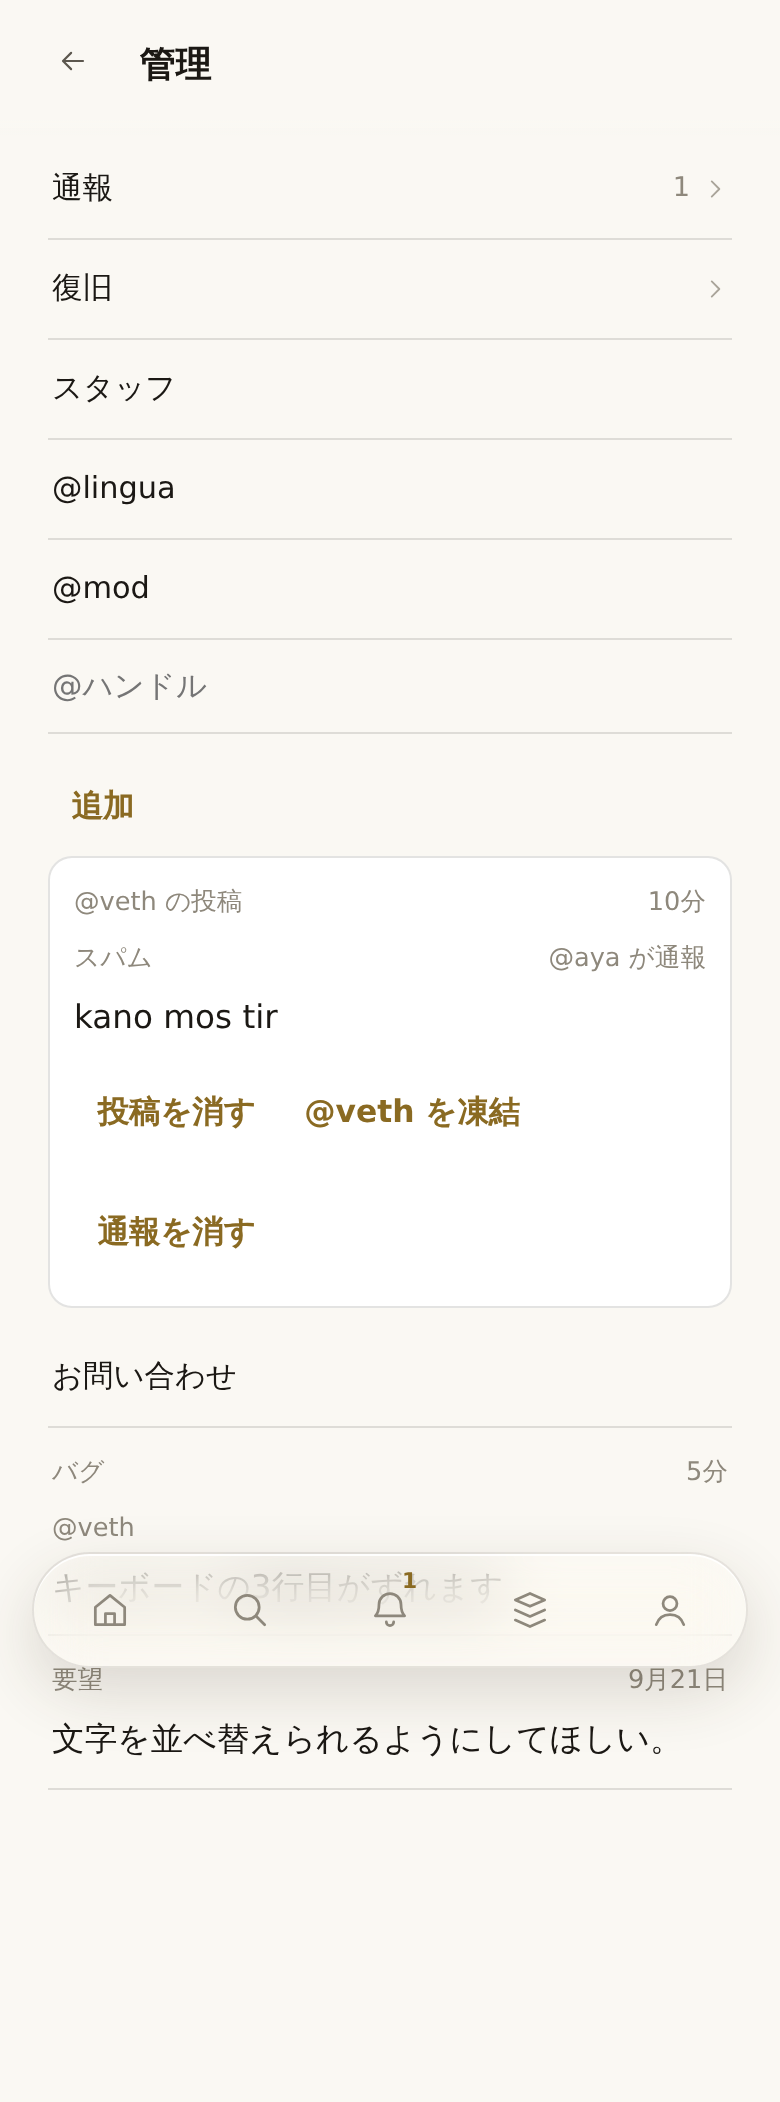
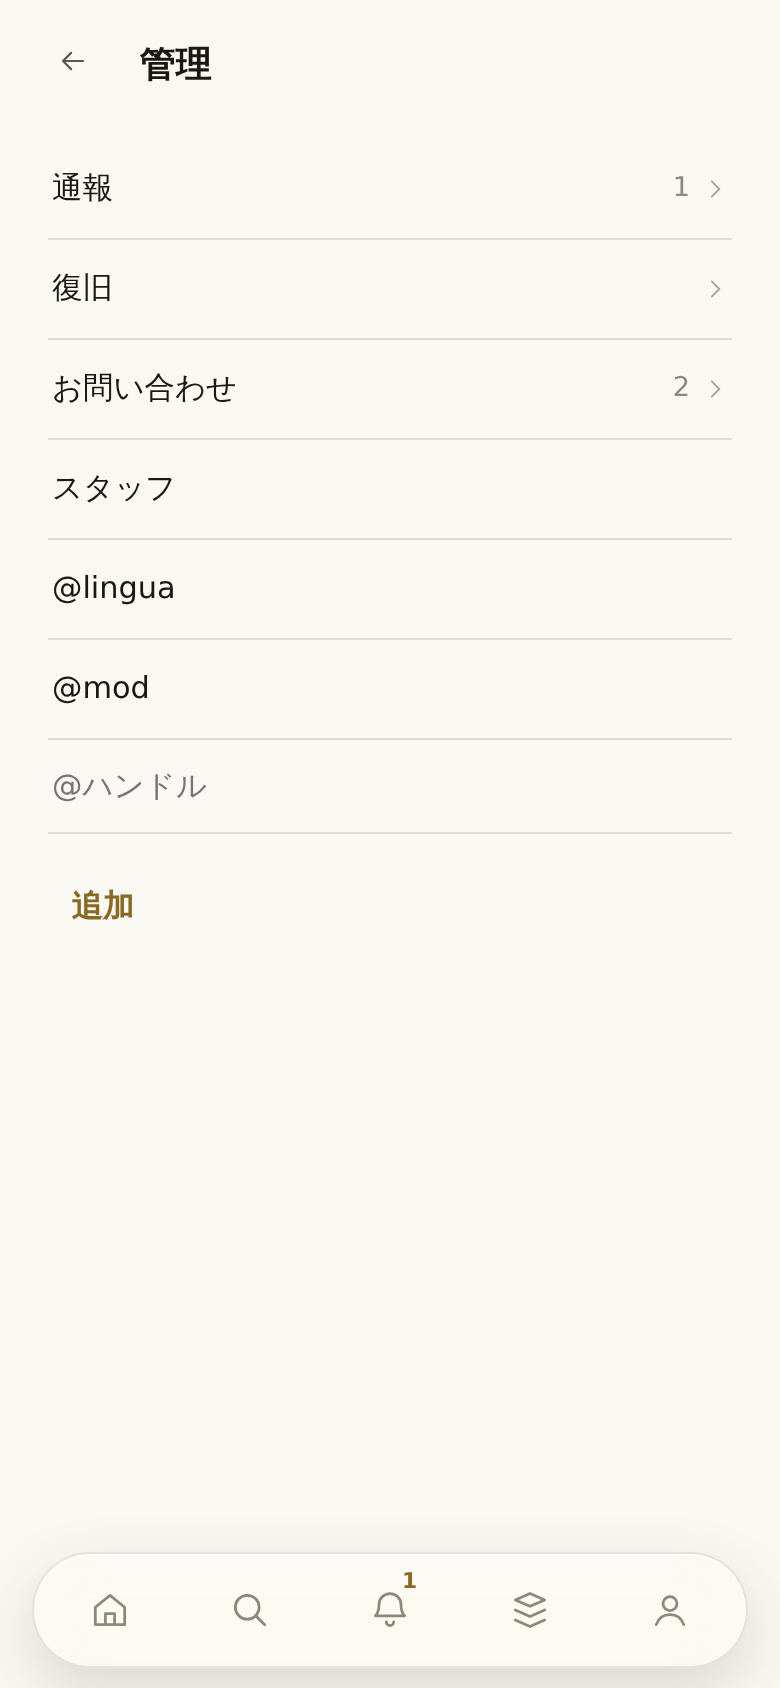
admin: 選択の画面に戻す ── 通報もお問い合わせも、開いたらそれだけの画面
「そもそもadminの画面キモすぎる。お問い合わせ→開いたらお問い合わせだけの画面。
通報と→開いたら通報だけの画面。最初のスタッフとかの画面はあくまで選択の画面
だから」OWNER 2026-09-22。

管理の画面に**通報の一覧がそのまま並んでいた** ── その上に「通報」の行があって、
押すと同じ物がもう一度出る画面へ行く。行き先を一つ自分の下にこぼした目次だった。
`modListHTML(rows)` を vAdmin から削除。残るのは行だけ：通報・復旧・
お問い合わせ・スタッフ。

お問い合わせは `admin:fb` の顔（復旧と同じで、route は増やさない ── 道も戻る
ボタンも shell の物）。bar の字も「お問い合わせ」にした（`pageName`）── 管理と
出る画面は「お問い合わせだけの画面」の半分なので。**復旧の顔は今も「管理」と
出るが、そこはこの session の持ち物ではないので触っていない**（報告に書く）。

**運営が一件消せる**（「運営は消せるように。」）：一件ごとに「消す」、一度訊いて
から `feedback_drop(f)`。`.ghost` で `.bad` ではない ── 消えるのは目の前の行
だけで、誰のアカウントにも触らない。del-check に登録（takes と asks）。

CSS は `.fbk` の下線一本だけ（前の commit の分）。

写真：r45-admin（選択の画面）、r45-admin-fb（二件・片方は退会で @ なし）、
r45-admin-fb-none（まだ無い）。

Claude-Session: https://claude.ai/code/session_01Rhn9xAnLWjkCZvjhnJpjae

diff --git a/www/mod.js b/www/mod.js
@@ -388,7 +388,36 @@ function fbkRow(r){
     '</div>'+
     (r.by? '<div class="mhead"><span class="mby">'+esc('@'+r.by)+'</span></div>' : '')+
     '<div class="mline">'+esc(r.body)+'</div>'+
+    /* 「運営は消せるように。」 OWNER 2026-09-22. `.ghost` and not `.bad`:
+       what it takes away is the row in front of you and nothing of anybody's
+       account, which is what the red on modRow()'s two buttons is for. */
+    '<button class="btn ghost"' + DO('fbkDrop', [r.id]) + '>'+
+      esc(t('admin.fb.drop'))+'</button>'+
     '</div>';
+}
+/* It asks first, because it cannot be taken back -- the same shape and the
+   same words as modDrop() one chapter up, since it is the same act on a
+   different queue. A failure goes the road every failed request goes:
+   netPop(), with 再接続 running this same press. */
+function fbkDrop(id){
+  popAsk(t('admin.fb.sure'), function(){ fbkDropGo(id); }, t('mod.drop.yes'));
+}
+function fbkDropGo(id){
+  netFeedbackDrop(id, function(){ fbkForget(id); render(); },
+    function(d, st){ netPop(d, st, '', function(){ fbkDropGo(id); }); });
+}
+function fbkForget(id){
+  var out=[], i, fs=FBK||[];
+  for(i=0;i<fs.length;i++) if(fs[i].id!==id) out.push(fs[i]);
+  FBK=out;
+}
+/* The list, and the two things that stand in its place -- modListHTML()'s
+   sentence about a different queue. Three states and not two: what could not
+   be asked, nothing to show, and the rows. */
+function fbkListHTML(){
+  return (FBK_ERR? emptyBox(FBK_ERR, '', '', true) : '')+
+    ((!FBK_ERR && FBK && !FBK.length)? emptyBox(t('admin.fb.none')) : '')+
+    (FBK||[]).map(fbkRow).join('');
 }
 function adminAsk(){
   ADMIN_BUSY=false;
@@ -543,7 +572,25 @@ function vAdmin(){
   if(a.indexOf('rec')===0)
     return '<div class="view">'+navTop('')+'<div class="body">'+
       adRecBody(a)+'</div></div>';
-  var n=ADMINN||{}, rows=MODS||[];
+  /* AND WHAT PEOPLE HAVE WRITTEN IN, ON A PAGE OF ITS OWN.
+     「お問い合わせ→開いたらお問い合わせだけの画面」 OWNER 2026-09-22. A face
+     of this route, the way the recovery one is -- so the trail and the back
+     button are the shell's and nothing new was registered. */
+  if(a==='fb')
+    return '<div class="view">'+navTop('')+'<div class="body">'+
+      fbkListHTML()+'</div></div>';
+  /* THIS SCREEN IS A LIST OF WAYS IN, AND NOTHING ELSE.
+     「そもそもadminの画面キモすぎる。お問い合わせ→開いたらお問い合わせだけの
+     画面。通報と→開いたら通報だけの画面。最初のスタッフとかの画面はあくまで
+     選択の画面だから」 OWNER 2026-09-22.
+
+     The reports used to be drawn HERE as well, under the staff field -- the
+     same modListHTML() the reports screen is made of -- so this page was a
+     menu with one of its own destinations spilled down the bottom of it, and
+     the row above them went to a screen showing the same thing again. What is
+     left is rows: the reports, the recovery, the feedback, and who answers
+     them. Each one opens a page that is only that. */
+  var n=ADMINN||{};
   return '<div class="view">'+navTop('')+'<div class="body">'+
     adminRow('admin.reports', n.reports, 'goMod')+
     /* 「運営が治せる仕様は欲しい」 OWNER 2026-09-09. A row and not a screen of
@@ -551,6 +598,13 @@ function vAdmin(){
     '<button class="set"' + DO('go', ['admin', 'rec']) + '>'+
       '<span class="sl">'+esc(t('admin.rec'))+'</span>'+
       '<span class="sv">'+ICON_GO+'</span></button>'+
+    /* And what people have written in -- a row like the two above it, and the
+       page behind it holds nothing else. 「お問い合わせ→開いたらお問い合わせ
+       だけの画面」 OWNER 2026-09-22. The number is how many came back, which
+       is the same thing the reports row says. */
+    '<button class="set"' + DO('go', ['admin', 'fb']) + '>'+
+      '<span class="sl">'+esc(t('admin.feedback'))+'</span>'+
+      '<span class="sv">'+esc(FBK? String(FBK.length) : '')+ICON_GO+'</span></button>'+
     /* Who answers them, and the field that adds one. Both stay here: their
        buttons exist only where they are drawn, and act-check walks this route
        with no argument -- see the head of this section. */
@@ -571,16 +625,6 @@ function vAdmin(){
     (ADMIN_ERR? emptyBox(ADMIN_ERR, '', '', true) : '')+
     '<button class="btn ghost"' + DO('adminStaffAdd') +
       (ADMIN_BUSY? ' disabled':'') + '>'+esc(t('admin.staff.add'))+'</button>'+
-    /* And the reports themselves, drawn by the one function the reports
-       screen draws them with -- the rows and the two things that stand in
-       their place. */
-    modListHTML(rows)+
-    /* AND WHAT PEOPLE HAVE WRITTEN IN, under the reports. 「報告の下に」.
-       A heading like the staff one above it, then the rows newest first. */
-    '<div class="set"><span class="sl">'+esc(t('admin.feedback'))+'</span></div>'+
-    (FBK_ERR? emptyBox(FBK_ERR, '', '', true) : '')+
-    ((!FBK_ERR && FBK && !FBK.length)? emptyBox(t('admin.fb.none')) : '')+
-    (FBK||[]).map(fbkRow).join('')+
     '</div></div>';
 }
 /* Not named vSomething: tools/act-check.mjs reads every `v[A-Z]` in the app

diff --git a/www/net.js b/www/net.js
@@ -3802,6 +3802,16 @@ function netShow(pid, ok, bad){
    the same kind of name however alike they read -- supabase/schema.sql at
    report_drop(). is_staff() is asked there and not here: this file is a
    suggestion and the function is the wall. */
+/* And the same for something somebody wrote in. 「運営は消せるように。」
+   OWNER 2026-09-22. `f` and not `r`, because feedback_drop() takes its own
+   name and the two functions are not interchangeable however alike they
+   read -- supabase/schema.sql at feedback_drop(). is_staff() is asked there
+   and not here: this file is a suggestion and the function is the wall. */
+function netFeedbackDrop(id, ok, bad){
+  if(!netSignedIn() || !id){ bad(null, 0); return; }
+  netSend('POST', '/rest/v1/rpc/feedback_drop', {f:id},
+          SESS.at, function(){ ok(); }, bad);
+}
 function netReportDrop(id, ok, bad){
   if(!netSignedIn() || !id){ bad(null, 0); return; }
   netSend('POST', '/rest/v1/rpc/report_drop', {r:id},

diff --git a/www/shell.js b/www/shell.js
@@ -1037,6 +1037,11 @@ function pageName(r, a){
     for(si=0;si<SETS.length;si++) if(SETS[si].id===sa) return t(SETS[si].k);
     return t('set.title');
   }
+  /* 「お問い合わせ→開いたらお問い合わせだけの画面」 OWNER 2026-09-22 -- and a
+     page whose bar says 管理 is half of that. The recovery face of the same
+     route is still named after the route and not after itself; that one is
+     not this session's to rename. */
+  if(r==='admin' && String(a||'')==='fb') return t('admin.feedback');
   if(r==='relate'){
     var rk=String(a||'').split(':')[0];
     return (rk==='syn'||rk==='ant')? t('word.'+rk+'.add') : t('toc.words');

diff --git a/www/act-map.js b/www/act-map.js
@@ -66,6 +66,7 @@ act('modDown', modDown);
 act('modUp', modUp);
 act('modOut', modOut);
 act('modDrop', modDrop);
+act('fbkDrop', fbkDrop);
 act('modIn', modIn);
 act('storeRestore', storeRestore);
 act('storeManage', storeManage);
